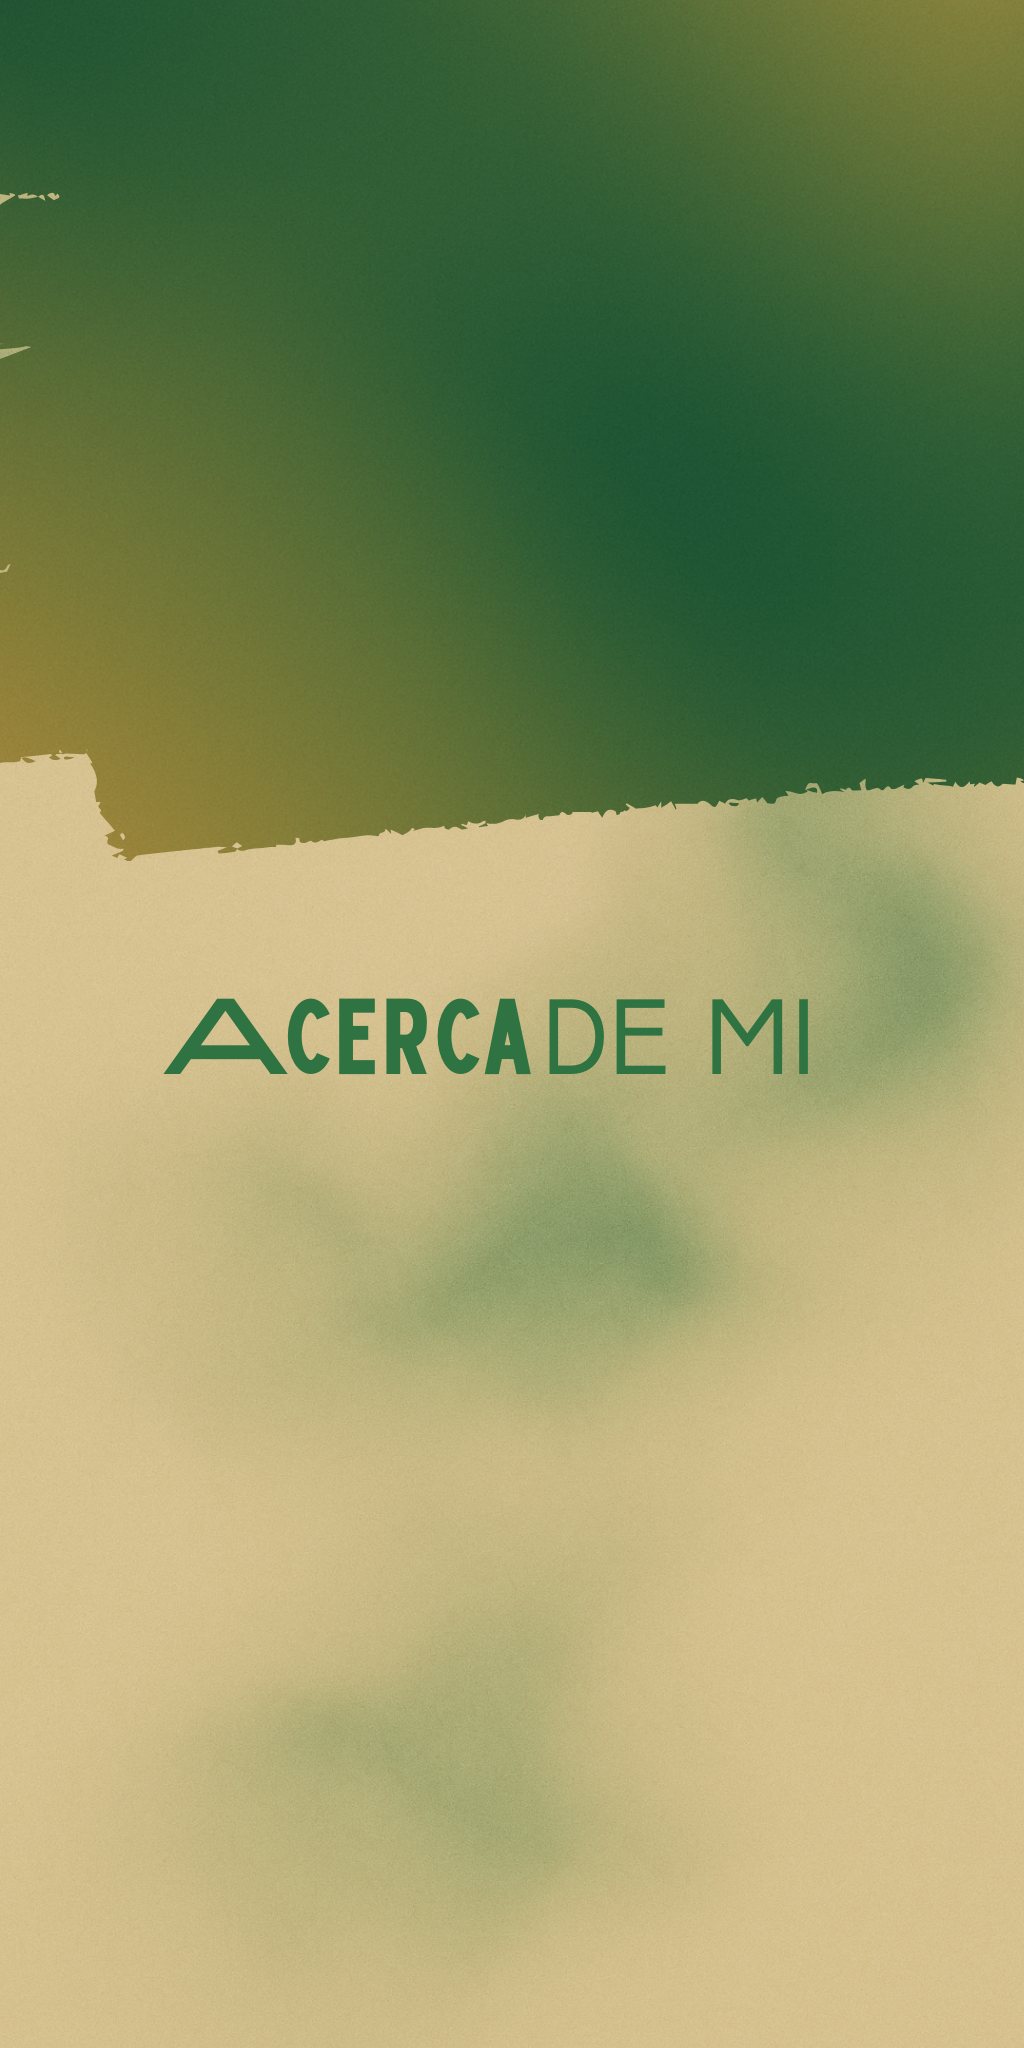
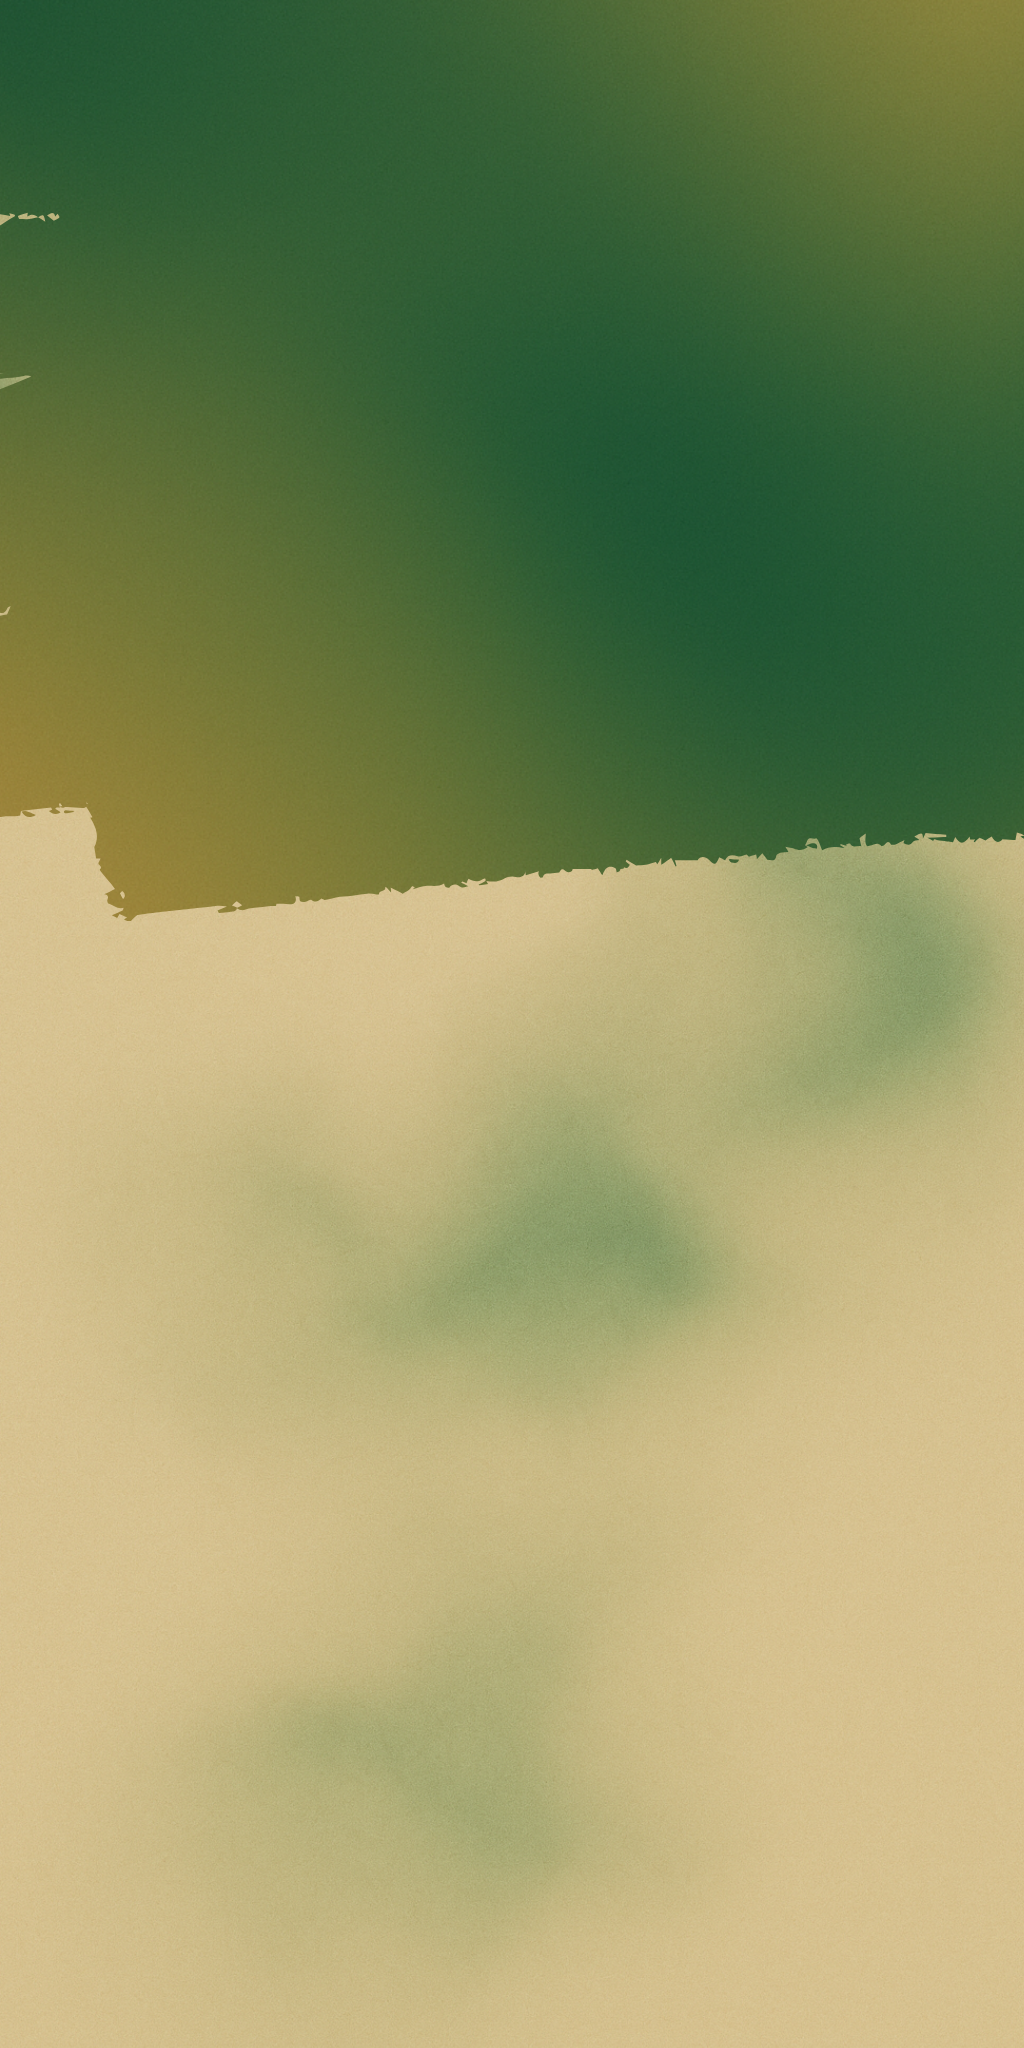
Agrego algunos cambios mas de skills y backgrouns , no me convence aun

diff --git a/style.css b/style.css
@@ -23,7 +23,7 @@
     background-repeat: no-repeat;
     background-position: top;
     width: 100%;
-    min-height: 1650px;
+    min-height: 1900px;
     height: 100vh;
     position: relative;
     padding-top: 80px;
@@ -33,7 +33,7 @@
   .content {
     color: white;
     text-align: center;
-    margin-top: 100px;
+    margin-top: 180px;
     width: 100%;
     display: flex;
     flex-direction: column;
@@ -55,19 +55,20 @@
   
   .verde {
     background-image: url('Background2.png');
-    background-size: cover;
-    background-position: center;
     background-repeat: no-repeat;
+    background-position: center center;
+    background-size: 100% 100%; /* ✅ fuerza a ocupar todo el ancho y alto */
+    background-attachment: scroll;
     min-height: 700px;
-    padding: 80px 20px 40px;
+    width: 100%;
     display: flex;
-    flex-direction: column; 
+    flex-direction: column;
     align-items: center;
+    justify-content: center;
     text-align: center;
-    display: flex;
-    justify-content: center; /* Centrado vertical */
     padding: 40px 20px;
   }
+  
 
   
   .contenido-verde {
@@ -112,7 +113,7 @@
   }
   
   .about-section {
-    margin-top: 600px;
+    margin-top: 730px;
     display: flex;
     justify-content: center;
     align-items: center; 
@@ -124,9 +125,10 @@
   
   .about-top {
     width: 100%;
-    padding: 0 40px;
-    margin-bottom: 40px;
+    margin-bottom: -20px; /* podés achicarlo más si querés */
+    margin-top: -300px; /* esto lo empuja hacia arriba */
   }
+  
   
   .about-top h1 {
     font-size: 2.3rem;
@@ -136,13 +138,26 @@
     text-decoration: underline;
     text-underline-offset: 6px; /* espacio entre texto y subrayado */
   }
+
+  .about-title-img {
+    display: block;
+    padding-left: -100px;
+    max-width: 70%;
+    height: auto;
+    opacity: 0.85;
+  }
+
+  .about-section {
+    background-color: transparent; /* o el color de fondo real */
+  }
+  
   
   .about-left {
     text-align: left;
     align-items: center;
     display: flex;
     position: relative;
-    left: -40px; /* desplaza un poco a la izquierda */
+    left: -50px; /* desplaza un poco a la izquierda */
   }
   
 
@@ -153,8 +168,8 @@
   }
   
   .about-left .profile-photo {
-    width: 300px;
-    height: 300px;
+    width: 400px;
+    height: 400px;
     border-radius: 50%;
     object-fit: cover;
   }
@@ -162,8 +177,8 @@
 /*WRAPPER CIRCULOS ALREDOR DE LA FOTO */
   .photo-wrapper {
     position: relative;
-    width: 300px;
-    height: 300px;
+    width: 400px;
+    height: 400px;
   }
   
   .photo-wrapper::before,
@@ -182,14 +197,14 @@
   
   
   .photo-wrapper::before {
-    width: 310px;
-    height: 310px;
+    width: 410px;
+    height: 410px;
     border-width: 2px;
   }
   
   .photo-wrapper::after {
-    width: 340px;
-    height: 340px;
+    width: 440px;
+    height: 440px;
     border-width: 4px;
   }
   
@@ -229,19 +244,21 @@
     text-underline-offset: 6px; /* espacio entre texto y subrayado */
   }
   
-  
+
+
   .skills-grid {
     display: grid;
     grid-template-columns: repeat(3, 1fr);
     gap: 30px;
-    max-width: 960px;
+    max-width: 1000px;
     width: 100%;
-    margin: auto;
+    margin: -40px 0 0 250px; /* arriba | derecha | abajo | izquierda */
   }
+  
   
   .skills-grid img {
     width: 100%;
-    height: 120px;
+    height: 150px;
     object-fit: contain;
     background-color: rgba(255, 255, 255, 0.1);
     padding: 10px;
@@ -300,6 +317,7 @@
   /* Colores desde clases */
 .saludo {
   color: rgb(0, 0, 0);
+
 }
 
 .nombre {
@@ -309,6 +327,22 @@
 .rol {
   color: rgb(0, 0, 0);
 }
+
+.saludo.fade-in {
+    font-size: 2rem !important;
+    color: black !important;
+  }
+  
+  .nombre.typewriter {
+    font-size: 3.5rem !important;
+    color: rgba(213, 171, 0, 0.864) !important;
+  }
+  
+  .rol.slide-up {
+    font-size: 2rem !important;
+    color: black !important;
+  }
+  
 
 /* Fade-in */
 .fade-in {
@@ -370,20 +404,6 @@
     transform: translateY(0);
   }
 }
-
-
-
 /*FIN ANIMACIONES DE HOLA SOY */
-  
-  
 
-
-  
-  
-  
-  
-  
-  
-  
-
-  
+/*rotar fotos skills */

diff --git a/index.html b/index.html
@@ -10,7 +10,7 @@
   <link href="https://fonts.googleapis.com/css2?family=Orbitron:wght@400..900&display=swap" rel="stylesheet">
 
 </head>
-<script src="script.js"></script>
+<script src="javascript.js"></script>
 <body>
     <section class="hero">
         <div class="content">
@@ -22,9 +22,9 @@
       
       
         <div class="about-section">
-          <div class="about-top">  
-                <h1 class=" slide-up">Acerca de mí</h1>
-          </div>
+            <div class="about-top">
+                <img src="about-Photoroom.png" alt="Acerca de mí" class="about-title-img">
+              </div>              
           <div class="about-left">
             <div class="photo-wrapper">
               <img src="Gonzalo.png" alt="Foto de Gonzalo" class="profile-photo slide-up">
@@ -32,9 +32,9 @@
           </div>          
           <div class="about-right slide-up">
             <h2>
-                Soy Gonzalo. Un analista de datos apasionado por el aprendizaje constante.<br><br>
+                Soy Gonzalo. Un analista de datos apasionado por el aprendizaje continuo.<br><br>
                 
-                Tengo un título de grado en Comercio Internacional y experiencia en gestión operativa, análisis financiero y optimización de procesos.<br><br>
+                Tengo un título de grado en Comercio Internacional. Experiencia en gestión operativa, análisis financiero y optimización de procesos.<br><br>
               
                 Durante más de 6 años lideré iniciativas de mejora continua en HISAN, impulsando decisiones basadas en datos mediante reportes, KPIs y automatización de tareas.<br><br>
               
@@ -49,7 +49,6 @@
   
       <section class="verde">
         <div class="about-verde">
-          <h1>Skills</h1>
         </div>
         <div class="skills-grid">
           <img src="excel.png" alt="Excel">

diff --git a/javascript.js b/javascript.js
@@ -1,10 +1,28 @@
 window.addEventListener("load", () => {
-  const el = document.querySelector(".typewriter");
-  const typingDuration = 1400; // igual al timing de .typewriter
-  const delay = 600; // tiempo desde que carga
-
-  setTimeout(() => {
-    el.classList.add("done");
-  }, typingDuration + delay);
-});
-
+    // 🔝 Siempre arrancar arriba de todo
+    setTimeout(() => {
+      window.scrollTo({ top: 0, behavior: "auto" });
+    }, 10); // pequeño delay para asegurar efecto
+  
+    // ⌨ Efecto de escritura: eliminar cursor luego de escribir
+    const el = document.querySelector(".typewriter");
+    if (el) {
+      setTimeout(() => {
+        el.classList.add("done");
+      }, 2000); // coincide con tu animación
+    }
+  
+    // 👻 Ocultar la sección al inicio
+    const aboutSection = document.querySelector(".about-section");
+    if (aboutSection) {
+      aboutSection.classList.remove("show");
+  
+      // 📏 Mostrar cuando scrolleás más de 500px
+      window.addEventListener("scroll", () => {
+        if (window.scrollY > 500) {
+          aboutSection.classList.add("show");
+        }
+      });
+    }
+  });
+  
